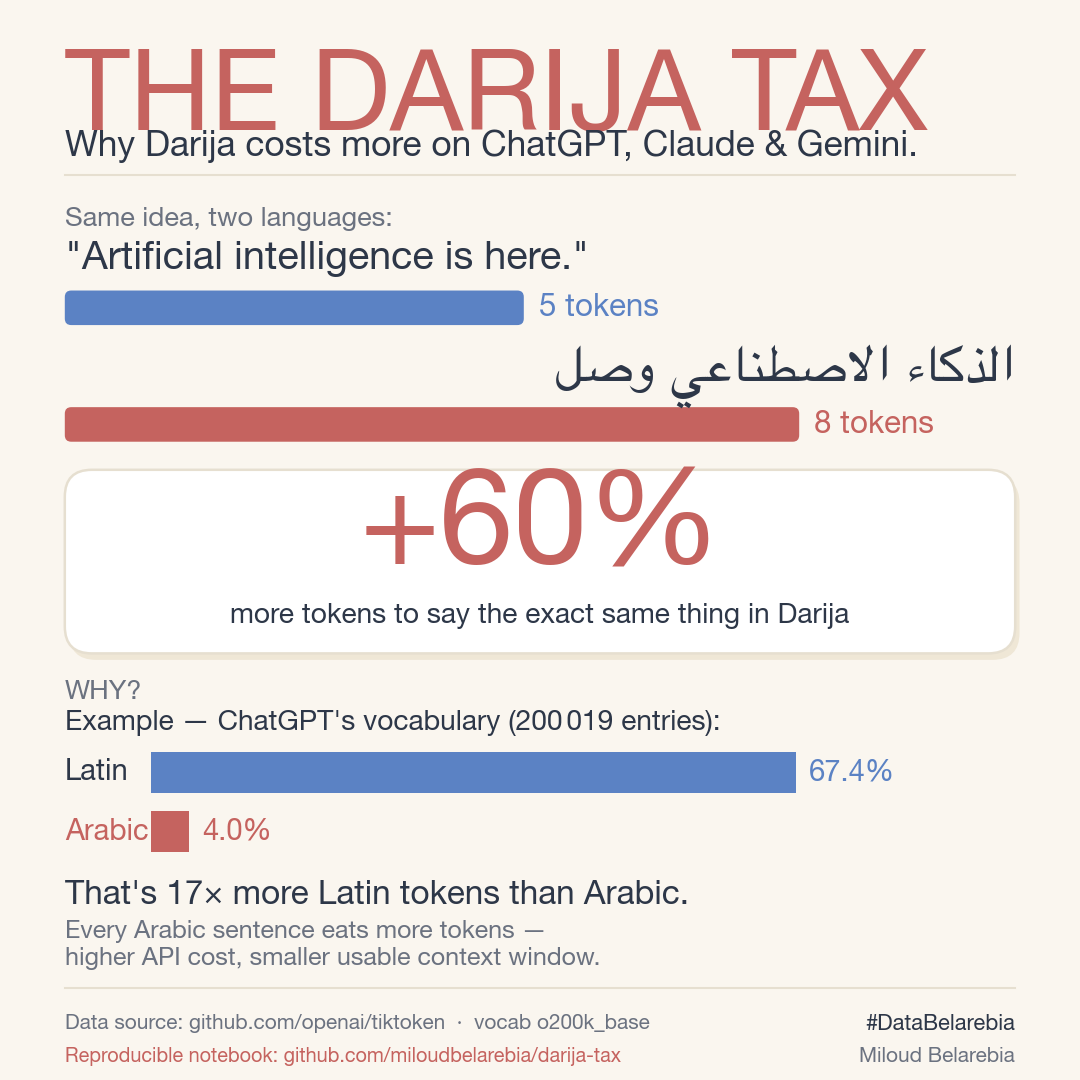
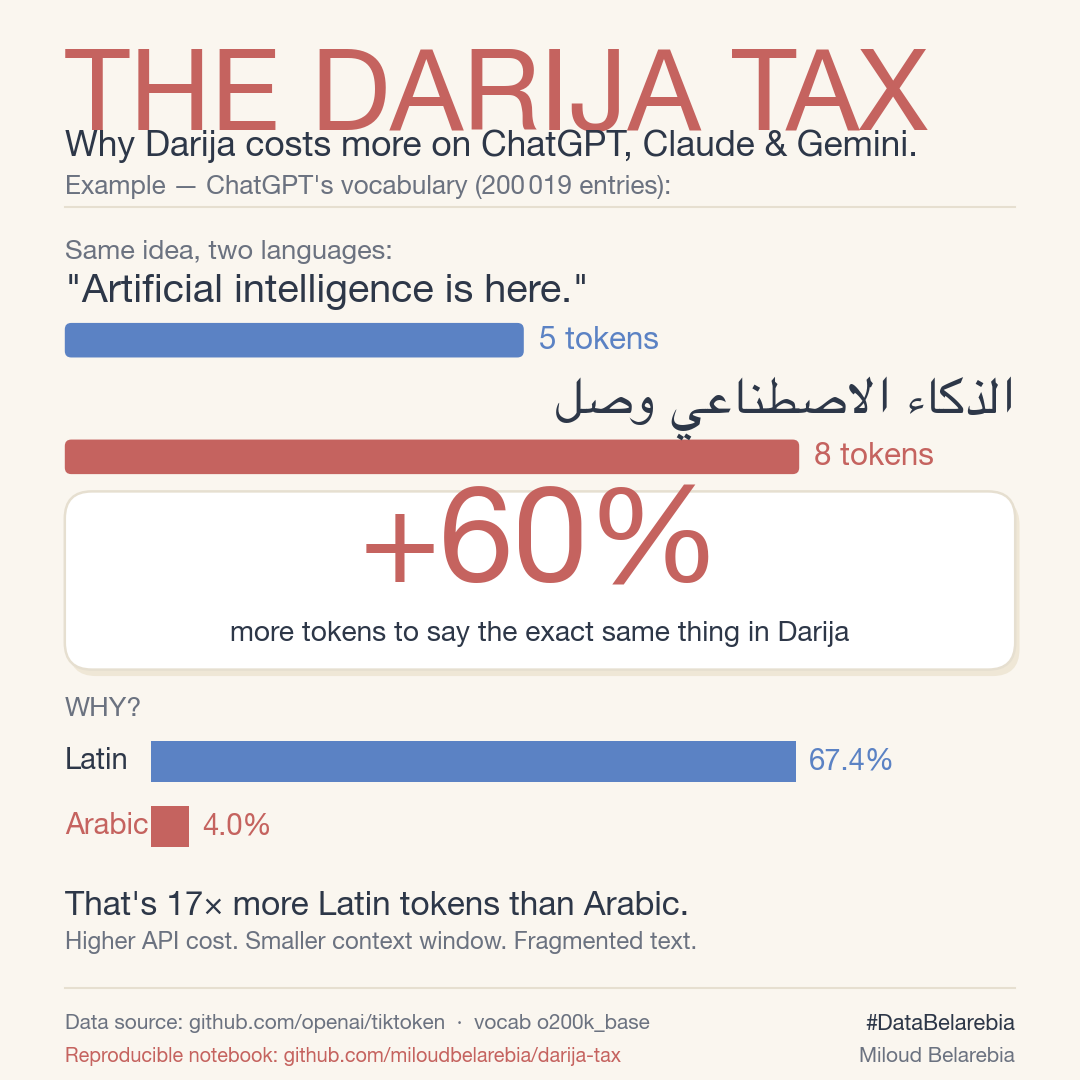
Restructure infographic: move scope note to header, simplify WHY block

Changed region(s): [[0.0611, 0.1528, 0.9472, 0.9167]]

diff --git a/viz.py b/viz.py
@@ -66,19 +66,22 @@ LEFT, RIGHT = 0.06, 0.94
 WIDTH = RIGHT - LEFT
 
 # ==================================================================
-# HEADER  — short title + one-liner mentioning the three big LLMs
+# HEADER  — title + one-liner + scope note (which model the numbers come from)
 # ==================================================================
 ax.text(LEFT, 0.955, "THE DARIJA TAX",
         fontsize=54, fontweight="bold", color=ACCENT, ha="left", va="top")
 ax.text(LEFT, 0.880, "Why Darija costs more on ChatGPT, Claude & Gemini.",
         fontsize=17, color=FG, ha="left", va="top")
+ax.text(LEFT, 0.838,
+        f"Example — ChatGPT's vocabulary ({thou(TOTAL)} entries):",
+        fontsize=12.5, color=MUTED, ha="left", va="top", fontstyle="italic")
 
-ax.plot([LEFT, RIGHT], [0.838, 0.838], color=BORDER, linewidth=1)
+ax.plot([LEFT, RIGHT], [0.808, 0.808], color=BORDER, linewidth=1)
 
 # ==================================================================
 # BLOC 1 : THE DEMONSTRATION (same idea, two languages)
 # ==================================================================
-ax.text(LEFT, 0.808, "Same idea, two languages:",
+ax.text(LEFT, 0.778, "Same idea, two languages:",
         fontsize=13, color=MUTED, ha="left", va="top", fontweight="600")
 
 # Bar geometry (English + Arabic share the same X axis)
@@ -89,8 +92,8 @@ max_tok = max(EN_TOK, AR_TOK)   # 8
 bar_h  = 0.032
 
 # --- English line ---
-y_en_phrase = 0.760
-y_en_bar    = 0.715
+y_en_phrase = 0.730
+y_en_bar    = 0.685
 
 ax.text(LEFT, y_en_phrase, f'"{EN_TXT}"',
         fontsize=19, color=FG, ha="left", va="center")
@@ -105,8 +108,8 @@ ax.text(BAR_X0 + w_en + 0.014, y_en_bar,
         fontsize=15, color=LATIN_C, ha="left", va="center", fontweight="bold")
 
 # --- Arabic line ---
-y_ar_phrase = 0.652
-y_ar_bar    = 0.607
+y_ar_phrase = 0.622
+y_ar_bar    = 0.577
 
 ax.text(RIGHT, y_ar_phrase, f'{ar(AR_TXT)}',
         fontsize=26, color=FG, ha="right", va="center",
@@ -122,9 +125,9 @@ ax.text(BAR_X0 + w_ar + 0.014, y_ar_bar,
         fontsize=15, color=ACCENT, ha="left", va="center", fontweight="bold")
 
 # ==================================================================
-# BLOC 2 : THE HERO NUMBER  (+60%)  — sized to fit inside the card
+# BLOC 2 : THE HERO NUMBER  (+60%)
 # ==================================================================
-card_y0, card_y1 = 0.395, 0.565   # slightly taller card for breathing room
+card_y0, card_y1 = 0.380, 0.545   # height = 0.165
 # Subtle drop shadow (offset card behind)
 ax.add_patch(patches.FancyBboxPatch(
     (LEFT + 0.004, card_y0 - 0.006), WIDTH, card_y1 - card_y0,
@@ -135,21 +138,18 @@ ax.add_patch(patches.FancyBboxPatch(
     boxstyle="round,pad=0,rounding_size=0.025",
     facecolor=CARD, edgecolor=BORDER, linewidth=1.2))
 
-# Hero number — 64pt fits comfortably inside the card (height ~0.17)
-ax.text(0.5, 0.510, f"+{TAXE_PCT}%",
+# Hero number — 64pt fits comfortably inside the card
+ax.text(0.5, 0.493, f"+{TAXE_PCT}%",
         fontsize=64, fontweight="bold", color=ACCENT,
         ha="center", va="center")
-ax.text(0.5, 0.430, "more tokens to say the exact same thing in Darija",
+ax.text(0.5, 0.413, "more tokens to say the exact same thing in Darija",
         fontsize=13.5, color=FG, ha="center", va="center")
 
 # ==================================================================
-# BLOC 3 : WHY ?  (vocabulary imbalance)
+# BLOC 3 : WHY ?  (vocabulary imbalance — bars only, context is in header)
 # ==================================================================
-ax.text(LEFT, 0.370, "WHY?",
+ax.text(LEFT, 0.355, "WHY?",
         fontsize=13, color=MUTED, ha="left", va="top", fontweight="bold")
-ax.text(LEFT, 0.343,
-        f"Example — ChatGPT's vocabulary ({thou(TOTAL)} entries):",
-        fontsize=13.5, color=FG, ha="left", va="top", fontweight="600")
 
 # Bars (scale 0..70% so the Latin bar nearly fills the available width)
 BAR2_X0 = LEFT + 0.08
@@ -159,7 +159,7 @@ bar2_h  = 0.038
 SCALE   = 70
 
 # Latin
-y_lat = 0.285
+y_lat = 0.295
 ax.text(LEFT, y_lat, "Latin",
         fontsize=14, color=FG, ha="left", va="center", fontweight="600")
 w_lat = BAR2_W * (LATIN_PCT / SCALE)
@@ -171,7 +171,7 @@ ax.text(BAR2_X0 + w_lat + 0.012, y_lat,
         fontsize=14, color=LATIN_C, ha="left", va="center", fontweight="bold")
 
 # Arabic
-y_arb = 0.230
+y_arb = 0.235
 ax.text(LEFT, y_arb, "Arabic",
         fontsize=14, color=ACCENT, ha="left", va="center", fontweight="bold")
 w_arb = max(BAR2_W * (ARAB_PCT / SCALE), 0.010)
@@ -182,16 +182,13 @@ ax.text(BAR2_X0 + w_arb + 0.012, y_arb,
         f"{ARAB_PCT:.1f}%",
         fontsize=14, color=ACCENT, ha="left", va="center", fontweight="bold")
 
-# Causal punchline that links the two numbers (tighter spacing)
-ax.text(LEFT, 0.185,
+# Causal punchline + one-line consequence
+ax.text(LEFT, 0.175,
         f"That's {RATIO}× more Latin tokens than Arabic.",
         fontsize=16, color=FG, ha="left", va="top", fontweight="700")
-ax.text(LEFT, 0.148,
-        "Every Arabic sentence eats more tokens —",
-        fontsize=12, color=MUTED, ha="left", va="top")
-ax.text(LEFT, 0.123,
-        "higher API cost, smaller usable context window.",
-        fontsize=12, color=MUTED, ha="left", va="top")
+ax.text(LEFT, 0.138,
+        "Higher API cost. Smaller context window. Fragmented text.",
+        fontsize=11.5, color=MUTED, ha="left", va="top")
 
 # ==================================================================
 # FOOTER  (two lines)